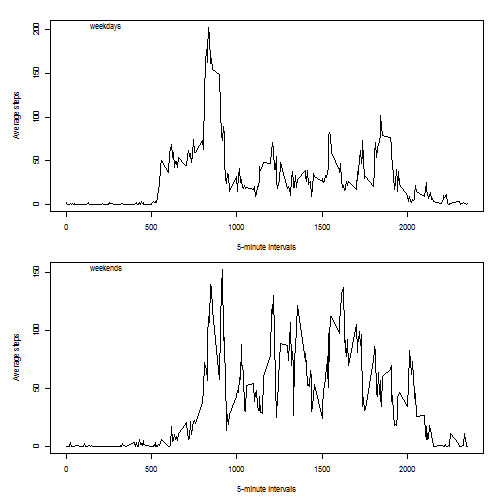
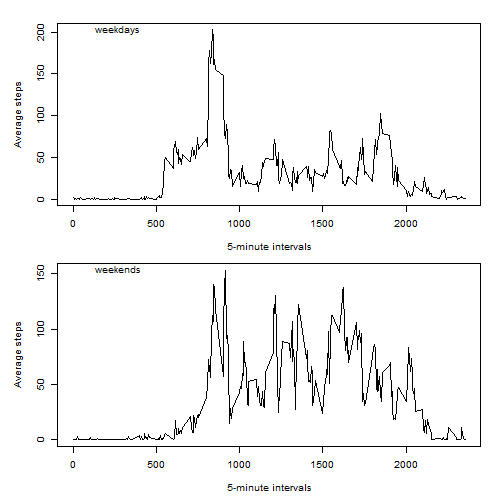
finished

diff --git a/PA1_template.html b/PA1_template.html
@@ -189,9 +189,7 @@ hljs.initHighlightingOnLoad();
 
 <p><code>dplyr</code> and <code>timeDate</code> packages are necessary.</p>
 
-<pre><code class="r">Sys.setlocale(&quot;LC_ALL&quot;,&quot;English_United States.1252&quot;)
-Sys.setenv(TZ=&#39;GMT&#39;)
-library(dplyr)
+<pre><code class="r">library(dplyr)
 </code></pre>
 
 <pre><code>## 
@@ -250,11 +248,10 @@ print(tstepsmedian)
     group_by(interval) %.%
     summarise(mean = mean(steps, na.rm = T))
 plot(data2$interval, data2$mean, type = &quot;l&quot;, main = &quot;Time Series Plot per
-     5-minute interval&quot;, xlab = &quot;5-minute intervals&quot;, ylab = &quot;Average number of
-     steps taken&quot;)
+     5-minute interval&quot;, xlab = &quot;5-minute intervals&quot;, ylab = &quot;Average steps&quot;)
 </code></pre>
 
[2 lines of base64/hex data omitted]
 
 <p><em>2. Which 5-minute interval, on average across all the days in the dataset, contains</em>
 <em>the maximum number of steps?</em></p>
@@ -366,17 +363,17 @@ new.data.weekends &lt;- new.data %.%
 
 <pre><code class="r"># Ploting
 par(mfrow = c(2,1))
-par(cex = 0.7)
+par(cex = 0.8)
 par(mar = c(4,4,1,1), oma = c(1,1,1,1))
 
 plot(new.data.weekdays$interval, new.data.weekdays$mean, type = &quot;l&quot;, xlab = &quot;5-minute intervals&quot;, ylab = &quot;Average steps&quot;)
-mtext(&quot;weekdays&quot;, side = 3, line = -1, adj = 0.1, cex = 0.7)
+mtext(&quot;weekdays&quot;, side = 3, line = -1, adj = 0.1, cex = 0.8)
 
 plot(new.data.weekends$interval, new.data.weekends$mean, type = &quot;l&quot;, xlab = &quot;5-minute intervals&quot;, ylab = &quot;Average steps&quot;)
-mtext(&quot;weekends&quot;, side = 3, line = -1, adj = 0.1, cex = 0.7)
+mtext(&quot;weekends&quot;, side = 3, line = -1, adj = 0.1, cex = 0.8)
 </code></pre>
 
[2 lines of base64/hex data omitted]
 
 </body>
 

diff --git a/PA1_template.md b/PA1_template.md
@@ -10,9 +10,8 @@ data <- read.csv(unz("activity.zip", "activity.csv"), colClasses =
 `dplyr` and `timeDate` packages are necessary.
 
 
+
 ```r
-Sys.setlocale("LC_ALL","English_United States.1252")
-Sys.setenv(TZ='GMT')
 library(dplyr)
 ```
 
@@ -79,8 +78,7 @@ data2 <- data %.%
     group_by(interval) %.%
     summarise(mean = mean(steps, na.rm = T))
 plot(data2$interval, data2$mean, type = "l", main = "Time Series Plot per
-     5-minute interval", xlab = "5-minute intervals", ylab = "Average number of
-     steps taken")
+     5-minute interval", xlab = "5-minute intervals", ylab = "Average steps")
 ```
 
 ![plot of chunk timeseries](figure/timeseries.png) 
@@ -213,14 +211,14 @@ new.data.weekends <- new.data %.%
 ```r
 # Ploting
 par(mfrow = c(2,1))
-par(cex = 0.7)
+par(cex = 0.8)
 par(mar = c(4,4,1,1), oma = c(1,1,1,1))
 
 plot(new.data.weekdays$interval, new.data.weekdays$mean, type = "l", xlab = "5-minute intervals", ylab = "Average steps")
-mtext("weekdays", side = 3, line = -1, adj = 0.1, cex = 0.7)
+mtext("weekdays", side = 3, line = -1, adj = 0.1, cex = 0.8)
 
 plot(new.data.weekends$interval, new.data.weekends$mean, type = "l", xlab = "5-minute intervals", ylab = "Average steps")
-mtext("weekends", side = 3, line = -1, adj = 0.1, cex = 0.7)
+mtext("weekends", side = 3, line = -1, adj = 0.1, cex = 0.8)
 ```
 
 ![plot of chunk plots](figure/plots.png) 
